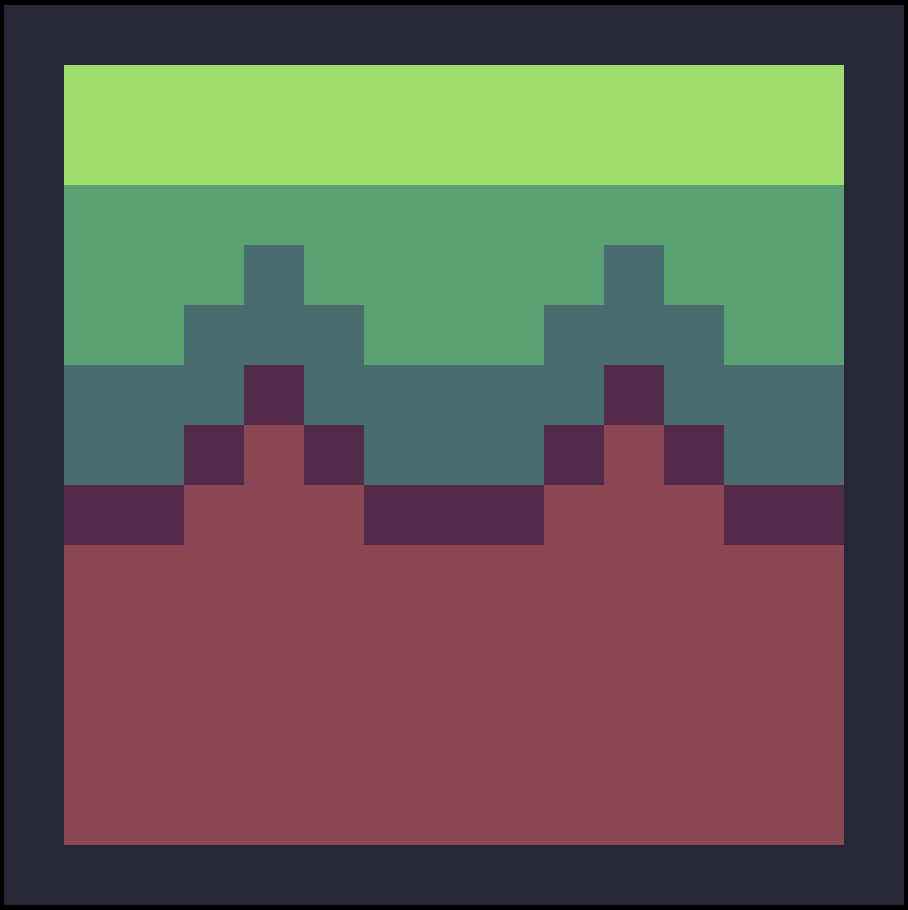
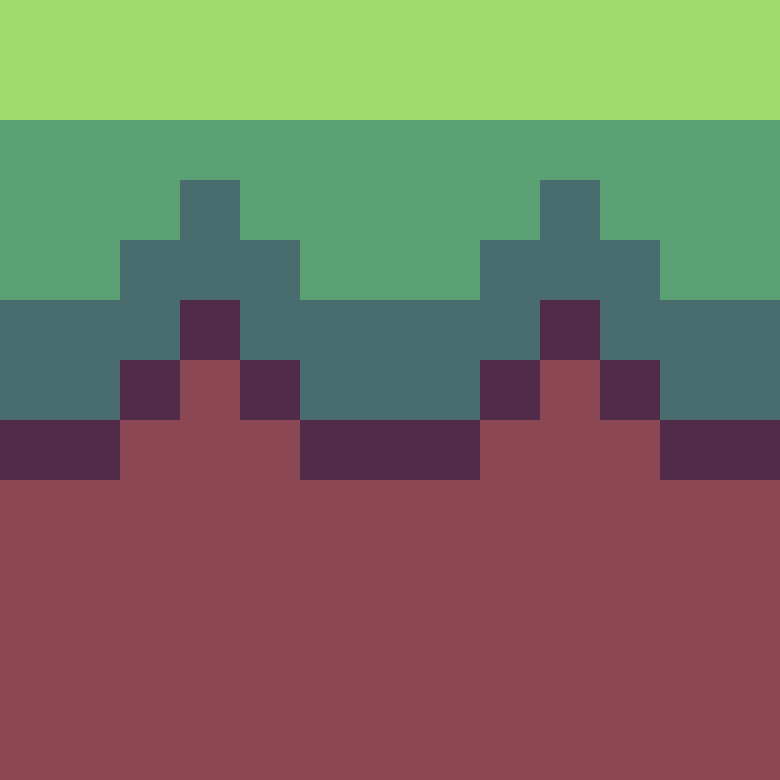
Finished Perlin terrain generation

diff --git a/src/GameApp.java b/src/GameApp.java
@@ -4,9 +4,23 @@ import java.io.IOException;
 import javax.swing.*;
 
 public class GameApp extends JPanel implements KeyListener, ActionListener {
+    int camX;
+    int camY;
+    int camdX;
+    int camdY;
+    int size;
+    double middleIndex;
+    boolean upPressed;
+    boolean downPressed;
+    boolean leftPressed;
+    boolean rightPressed;
+    TerrainGen Map;
     public GameApp(){
         Color background = new Color(77,166,255);
         setBackground(background);
+        Map = new TerrainGen(200,60);
+        camX = Map.getSpawn()*-50;
+        middleIndex = 200/2;
 
         setLayout(new FlowLayout());
         setFocusable(true);
@@ -19,11 +33,58 @@ public class GameApp extends JPanel implements KeyListener, ActionListener {
     }
 
     public void update(){
+        if(upPressed){
+            camdY += 5;
+        } if(downPressed){
+            camdY -= 5;
+        } if(leftPressed){
+            if(middleIndex>10) {
+                camdX += 5;
+                middleIndex -= 0.1;
+            }
+        } if(rightPressed){
+            if(middleIndex<190) {
+                camdX -= 5;
+                middleIndex += 0.1;
+            }
+        }
+
+        camX += camdX;
+        camY += camdY;
+        camdX = (int)0.8*camdX;
+        camdY = (int)0.8*camdY;
+        //System.out.println(camX);
+
+
+        //updates the terrain
+
+        Block[][] World = Map.getBlockMap();
+        for(int i = 0; i<Map.getWidth();i++){
+            for(int j = 0; j<Map.getHeight(); j++){
+                World[i][j].update(camX,camY);
+            }
+        }
+
+
         repaint();
     }
 
     public void paintComponent(Graphics g){
+        super.paintComponent(g);
 
+        //paints the terrain
+        Block[][] world = Map.getBlockMap();
+        Dimension screenSize = Toolkit.getDefaultToolkit().getScreenSize();
+        int left = (int)(middleIndex-1);
+        int right = (int)(middleIndex+(screenSize.getWidth()/50)+1);
+        for(int i = left; i< right; i++) {
+            for (int j = 0; j < Map.getHeight(); j++) {
+                //if(world[i][j].getX()>-100 && world[i][j].getX()<screenSize.width+100) { //bounds help with runtime
+                  //  world[i][j].paint(g);
+                //}
+                world[i][j].paint(g);
+            }
+        }
     }
 
     public void keyTyped(KeyEvent e) {
@@ -31,13 +92,13 @@ public class GameApp extends JPanel implements KeyListener, ActionListener {
 
     public void keyPressed(KeyEvent e) {
         if (e.getKeyCode() == KeyEvent.VK_UP) {
-
+            upPressed = true;
         } else if (e.getKeyCode() == KeyEvent.VK_DOWN) {
-
+            downPressed = true;
         } else if (e.getKeyCode() == KeyEvent.VK_RIGHT) {
-
+            rightPressed = true;
         } else if (e.getKeyCode() == KeyEvent.VK_LEFT) {
-
+            leftPressed = true;
         } else if (e.getKeyCode() == KeyEvent.VK_W) {
 
         } else if (e.getKeyCode() == KeyEvent.VK_A) {
@@ -59,13 +120,13 @@ public class GameApp extends JPanel implements KeyListener, ActionListener {
 
     public void keyReleased(KeyEvent e) {
         if (e.getKeyCode() == KeyEvent.VK_UP) {
-
+            upPressed = false;
         } else if (e.getKeyCode() == KeyEvent.VK_DOWN) {
-
+            downPressed = false;
         } else if (e.getKeyCode() == KeyEvent.VK_RIGHT) {
-
+            rightPressed = false;
         } else if (e.getKeyCode() == KeyEvent.VK_LEFT) {
-
+            leftPressed = false;
         } else if (e.getKeyCode() == KeyEvent.VK_W) {
 
         } else if (e.getKeyCode() == KeyEvent.VK_A) {

diff --git a/src/ImprovedNoise.java b/src/ImprovedNoise.java
@@ -1,0 +1,49 @@
+// JAVA REFERENCE IMPLEMENTATION OF IMPROVED NOISE - COPYRIGHT 2002 KEN PERLIN.
+
+public final class ImprovedNoise {
+    static public double noise(double x, double y, double z) {
+        int X = (int)Math.floor(x) & 255,                  // FIND UNIT CUBE THAT
+                Y = (int)Math.floor(y) & 255,                  // CONTAINS POINT.
+                Z = (int)Math.floor(z) & 255;
+        x -= Math.floor(x);                                // FIND RELATIVE X,Y,Z
+        y -= Math.floor(y);                                // OF POINT IN CUBE.
+        z -= Math.floor(z);
+        double u = fade(x),                                // COMPUTE FADE CURVES
+                v = fade(y),                                // FOR EACH OF X,Y,Z.
+                w = fade(z);
+        int A = p[X  ]+Y, AA = p[A]+Z, AB = p[A+1]+Z,      // HASH COORDINATES OF
+                B = p[X+1]+Y, BA = p[B]+Z, BB = p[B+1]+Z;      // THE 8 CUBE CORNERS,
+
+        return lerp(w, lerp(v, lerp(u, grad(p[AA  ], x  , y  , z   ),  // AND ADD
+                                grad(p[BA  ], x-1, y  , z   )), // BLENDED
+                        lerp(u, grad(p[AB  ], x  , y-1, z   ),  // RESULTS
+                                grad(p[BB  ], x-1, y-1, z   ))),// FROM  8
+                lerp(v, lerp(u, grad(p[AA+1], x  , y  , z-1 ),  // CORNERS
+                                grad(p[BA+1], x-1, y  , z-1 )), // OF CUBE
+                        lerp(u, grad(p[AB+1], x  , y-1, z-1 ),
+                                grad(p[BB+1], x-1, y-1, z-1 ))));
+    }
+    static double fade(double t) { return t * t * t * (t * (t * 6 - 15) + 10); }
+    static double lerp(double t, double a, double b) { return a + t * (b - a); }
+    static double grad(int hash, double x, double y, double z) {
+        int h = hash & 15;                      // CONVERT LO 4 BITS OF HASH CODE
+        double u = h<8 ? x : y,                 // INTO 12 GRADIENT DIRECTIONS.
+                v = h<4 ? y : h==12||h==14 ? x : z;
+        return ((h&1) == 0 ? u : -u) + ((h&2) == 0 ? v : -v);
+    }
+    static final int p[] = new int[512], permutation[] = { 151,160,137,91,90,15,
+            131,13,201,95,96,53,194,233,7,225,140,36,103,30,69,142,8,99,37,240,21,10,23,
+            190, 6,148,247,120,234,75,0,26,197,62,94,252,219,203,117,35,11,32,57,177,33,
+            88,237,149,56,87,174,20,125,136,171,168, 68,175,74,165,71,134,139,48,27,166,
+            77,146,158,231,83,111,229,122,60,211,133,230,220,105,92,41,55,46,245,40,244,
+            102,143,54, 65,25,63,161, 1,216,80,73,209,76,132,187,208, 89,18,169,200,196,
+            135,130,116,188,159,86,164,100,109,198,173,186, 3,64,52,217,226,250,124,123,
+            5,202,38,147,118,126,255,82,85,212,207,206,59,227,47,16,58,17,182,189,28,42,
+            223,183,170,213,119,248,152, 2,44,154,163, 70,221,153,101,155,167, 43,172,9,
+            129,22,39,253, 19,98,108,110,79,113,224,232,178,185, 112,104,218,246,97,228,
+            251,34,242,193,238,210,144,12,191,179,162,241, 81,51,145,235,249,14,239,107,
+            49,192,214, 31,181,199,106,157,184, 84,204,176,115,121,50,45,127, 4,150,254,
+            138,236,205,93,222,114,67,29,24,72,243,141,128,195,78,66,215,61,156,180
+    };
+    static { for (int i=0; i < 256 ; i++) p[256+i] = p[i] = permutation[i]; }
+}

diff --git a/src/TerrainGen.java b/src/TerrainGen.java
@@ -12,22 +12,91 @@ public class TerrainGen extends JPanel{
     public Block[][] BlockMap;
     private Random random = new Random();
 
+    private ImprovedNoise noiseGenerator = new ImprovedNoise();
+
     public TerrainGen(int width, int height){
         terrainWidth = width;
         terrainHeight = height;
         spawnX = terrainWidth/2;
 
         BlockMap = new Block[terrainWidth][terrainHeight];
+        terrain = new int[terrainWidth][terrainHeight];
 
         generateTerrain();
+        renderTerrain();
     }
     //generate terrain adds randomly selected terrain points into the terrain array
     public void generateTerrain(){
+        //create a ground level
+        ArrayList<Integer> groundLevel = new ArrayList<Integer>();
+        for(int i = 0; i <terrainWidth; i++){
+            groundLevel.add(terrainHeight/2);
+            //System.out.println(groundLevel.get(i));
+        }
 
+        double amplitude = 10*Math.random()+10; //noise strength
+        double frequency = random.nextDouble(0.10-0.05); //noise scale
+
+        for(int i = 0; i< terrainWidth;i++){
+            double perlinNoise = noiseGenerator.noise(i * frequency, 0, 0);
+            int adjustedGroundLevel = groundLevel.get(i) + (int) (perlinNoise * amplitude);
+            for (int j = 0; j < terrainHeight; j++) {
+                if (j == adjustedGroundLevel) {
+                    terrain[i][j] = 1; // grass
+                } else if (j > adjustedGroundLevel) {
+                    terrain[i][j] = 2; // dirt
+                } else {
+                    terrain[i][j] = 0; // air
+                }
+            }
+        }
+
+
+
+        /* Flat terrain
+        for(int i = 0; i< terrainWidth; i++){
+            for(int j = 0; j<terrainHeight; j++){
+                if(j==15){
+                    terrain[i][j] = 1;
+                } else if(j>15){
+                    terrain[i][j] = 2;
+                } else{
+                    terrain[i][j] = 0;
+                }
+            }
+        }
+
+         */
     }
 
     //renderterrain iterates through the terrain and renders everything
     public void renderTerrain(){
+
+        for(int i = 0; i<terrainHeight; i++){
+            for(int j = 0; j<terrainWidth; j++){
+                System.out.print(terrain[j][i]);
+            }
+            System.out.println();
+        }
+
+        int startX = 0;
+        int startY = 0;
+        for(int i =0; i<terrainWidth; i++){
+            startY = 0;
+            for(int j = 0; j<terrainHeight; j++){
+                if(terrain[i][j] == 1) {
+                    BlockMap[i][j] = new Block(startX, startY, "grass", 50);
+                }
+                else if(terrain[i][j] == 2) {
+                    BlockMap[i][j] = new Block(startX, startY, "dirt", 50);
+                }
+                else{
+                    BlockMap[i][j] = new Block(startX, startY, "AIR", 50);
+                }
+                startY += 50;
+            }
+            startX += 50;
+        }
 
     }
     public int getWidth(){
@@ -35,5 +104,12 @@ public class TerrainGen extends JPanel{
     }
     public int getHeight(){
         return terrainHeight;
+    }
+    public Block[][] getBlockMap(){
+        return BlockMap;
+    }
+
+    public int getSpawn(){
+        return spawnX;
     }
 }

diff --git a/src/Block.java b/src/Block.java
@@ -3,10 +3,20 @@ import javax.swing.*;
 import java.awt.*;
 import java.io.File;
 import java.io.IOException;
+import java.awt.image.BufferedImage;
 
 public class Block {
-    private ImageIcon grass = new ImageIcon(getClass().getResource("/images/Grass.png"));
-    private ImageIcon dirt = new ImageIcon(getClass().getResource("/images/Dirt.png"));
+    public ImageIcon grassIcon = new ImageIcon(getClass().getResource("/images/grass.png"));
+    public ImageIcon dirtIcon = new ImageIcon(getClass().getResource("/images/dirt.png"));
+
+    public Image grassImage;
+    public Image dirtImage;
+
+    public Image scaledGrass;
+    public Image scaledDirt;
+
+    public int xPos;
+    public int yPos;
     public int x;
     public int y;
     public String id;
@@ -17,28 +27,40 @@ public class Block {
         this.y = y;
         this.id = id;
         this.size = size;
+
+        grassImage = grassIcon.getImage();
+        dirtImage = dirtIcon.getImage();
+
+        scaleImages();
+    }
+
+    public void scaleImages(){
+        scaledGrass = grassImage.getScaledInstance(size,size, Image.SCALE_DEFAULT);
+        scaledDirt = dirtImage.getScaledInstance(size,size, Image.SCALE_DEFAULT);
     }
 
     public void update(int xV, int yV){
-        x = x + xV;
-        y = y + yV;
+        xPos = x + xV;
+        yPos = y + yV;
     }
 
     public void paint(Graphics g){
         if(id.equals("grass")){
-            g.drawImage(grass.getImage(),x,y,null);
+            //scaledGrass.paintIcon(null, g, xPos, yPos);
+            g.drawImage(scaledGrass,xPos,yPos,null);
         } else if(id.equals("dirt")){
-            g.drawImage(dirt.getImage(),x,y,null);
+            g.drawImage(scaledDirt,xPos,yPos,null);
+            //scaledDirt.paintIcon(null, g, xPos, yPos);
         } else{
         }
     }
 
     public int getX(){
-        return x;
+        return xPos;
     }
 
     public int getY(){
-        return y;
+        return yPos;
     }
 
     public String getId(){

diff --git a/src/Main.java b/src/Main.java
@@ -4,7 +4,7 @@ import java.awt.*;
 
 public class Main {
     public static void main(String[] args) {
-        JFrame frame = new JFrame("Game Name Here");
+        JFrame frame = new JFrame("Game Engine");
         frame.setDefaultCloseOperation(JFrame.EXIT_ON_CLOSE);
         frame.setLayout(new BorderLayout());
         Dimension screenSize = Toolkit.getDefaultToolkit().getScreenSize();

diff --git a/src/Player.java b/src/Player.java
@@ -1,2 +1,6 @@
 public class Player {
+
+    public Player(int maxHealth, int xV, int yV){
+
+    }
 }
